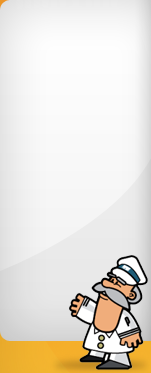
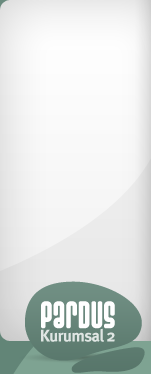
kaptan for corporate2 alpha is ready

Changed region(s): [[0.0, 0.6783, 1.0, 1.0], [0.0, 0.0, 0.053, 0.0295]]

diff --git a/kaptan/3/src/kaptan.py b/kaptan/3/src/kaptan.py
@@ -111,14 +111,11 @@ class Kaptan(kaptanUi):
             filemode='w')
         logging.info("Kaptan Started")
 
-        icon = "kaptan/pics/kaptan-logo.png"
-
         # set images
         self.setPaletteBackgroundPixmap(QPixmap(locate("data", "kaptan/pics/bg.png")))
         self.pixSteps.setPaletteBackgroundPixmap(QPixmap(locate("data", "kaptan/pics/leftWithCorner.png")))
         self.pageStack.setPaletteBackgroundPixmap(QPixmap(locate("data", "kaptan/pics/middleWithCorner.png")))
         self.pageDesc.setPaletteBackgroundPixmap(QPixmap(locate("data", "kaptan/pics/text_bg.png")))
-        self.pageIcon.setPixmap(QPixmap(locate("data", icon)))
 
         # set button icons
         loader = KGlobal.iconLoader()
